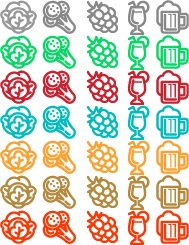
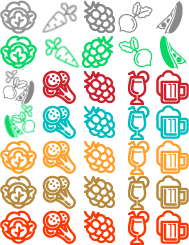
combi add

Changed region(s): [[0.0, 0.0, 1.0, 1.0]]

diff --git a/src/app/components/fruitproducts/fruitproducts.component.html b/src/app/components/fruitproducts/fruitproducts.component.html
@@ -1,21 +1,39 @@
 
-<section class="pb_70" style="padding-top: 15px" >
+<section class="pb_70" >
     <div class="container">
+      <div class="row justify-content-center">
+          <div class="col-12 text-center">
+                <div class="heading_s3 text-center animation" data-animation="fadeInDown" data-animation-delay="0.02s">
+                  <!-- <span class="sub_heading">DomiFrut</span> -->
+                    <h2 style="text-transform: unset;">Frutas y hortalizas a domicilio</h2>
+                </div>
+                <p class="animation" data-animation="fadeInUp" data-animation-delay="0.03s">Excelente calidad al mejor precio!
+                  <!-- <br class="d-none d-md-block"> de excelente calidad y al mejor precio. -->
+                </p>
+            </div>
+        </div>
         <div class="row justify-content-center">
             <div class="col-12">
                 <div class="product_content">
                     <ul class="nav nav-tabs justify-content-center animation" data-animation="fadeInUp" data-animation-delay="0.04s" role="tablist">
-                        <li class="nav-item">
-                        <a class="nav-link" id="tab3" data-toggle="tab" href="#tab-3" role="tab" aria-controls="tab-3" aria-selected="false"><span class="pr_icon3"></span>Frutas</a>
+                      <li class="nav-item">
+                        <a class="nav-link" id="tab5" data-toggle="tab" href="#tab-5" role="tab" aria-controls="tab-5" aria-selected="false"  ><span class="pr_icon4"></span>Bulbos</a>
                       </li>
                       <li class="nav-item">
-                        <a class="nav-link" id="tab2" data-toggle="tab" href="#tab-2" role="tab" aria-controls="tab-2" aria-selected="false" ><span class="pr_icon2"></span>Vegetales</a>
+                        <a class="nav-link" id="tab3" data-toggle="tab" href="#tab-3" role="tab" aria-controls="tab-3" aria-selected="false"><span class="pr_icon3"></span>Frutos</a>
                       </li>
                       <li class="nav-item">
-                        <a class="nav-link" id="tab4" data-toggle="tab" href="#tab-4" role="tab" aria-controls="tab-4" aria-selected="false"  ><span class="pr_icon4"></span>Exquiciteces</a>
+                        <a class="nav-link" id="tab4" data-toggle="tab" href="#tab-4" role="tab" aria-controls="tab-4" aria-selected="false"  ><span class="pr_icon5"></span>Legumbres</a>
+                      </li>
+                       <li class="nav-item">
+                        <a class="nav-link" id="tab6" data-toggle="tab" href="#tab-6" role="tab" aria-controls="tab-6" aria-selected="false"  ><span class="pr_icon2"></span>Tubérculos</a>
                       </li>
                       <li class="nav-item">
-                        <a class="nav-link active" id="tab1" data-toggle="tab" href="#tab-1" role="tab" aria-controls="tab-1" aria-selected="true"  (click)="getAllTixs()"><span class="pr_icon1"></span>Todo</a>
+                        <a class="nav-link" id="tab2" data-toggle="tab" href="#tab-2" role="tab" aria-controls="tab-2" aria-selected="false" ><span class="pr_icon1"></span>Verduras</a>
+                      </li>
+                      <li class="nav-item">
+                        <a class="nav-link active" id="tab1" data-toggle="tab" href="#tab-1" role="tab" aria-controls="tab-1" aria-selected="true"  (click)="getAllTixs()">
+                          <span class="pr_icon7"></span>Todo</a>
                       </li>
                   
                     </ul>
@@ -55,7 +73,7 @@
                         <div class="tab-pane fade" id="tab-2" role="tabpanel" aria-labelledby="tab2">
                             <div class="row animation" data-animation="fadeInUp" data-animation-delay="0.05s">
                                 <a href="javascript:void(0);" class="nav-link sidetoggle">
-                                    <div class="col-xl-3 col-lg-4 col-sm-6 col-xs-6" *ngFor="let tix of tixs" [hidden]="tix.category!='Vegetales'" (click)="viewProduct(tix)" >
+                                    <div class="col-xl-3 col-lg-4 col-sm-6 col-xs-6" *ngFor="let tix of tixs" [hidden]="tix.category!='Verduras'" (click)="viewProduct(tix)" >
                                         <div class="product">
                                             <div class="product_img">
                                                 <a href="#"><img src="{{tix.images[0]}}" alt=""/></a>
@@ -86,7 +104,7 @@
                         <div class="tab-pane fade" id="tab-3" role="tabpanel" aria-labelledby="tab3">
                           <div class="row animation" data-animation="fadeInUp" data-animation-delay="0.05s">
                             <a href="javascript:void(0);" class="nav-link sidetoggle">
-                                    <div class="col-xl-3 col-lg-4 col-sm-6 col-xs-6" *ngFor="let tix of tixs" [hidden]="tix.category!='Frutas'" (click)="viewProduct(tix)">
+                                    <div class="col-xl-3 col-lg-4 col-sm-6 col-xs-6" *ngFor="let tix of tixs" [hidden]="tix.category!='Frutos'" (click)="viewProduct(tix)">
                                        <div class="product">
                                             <div class="product_img">
                                                 <a href="#"><img src="{{tix.images[0]}}" alt=""/></a>
@@ -117,7 +135,69 @@
                         <div class="tab-pane fade" id="tab-4" role="tabpanel" aria-labelledby="tab4">
                            <div class="row animation" data-animation="fadeInUp" data-animation-delay="0.05s">
                                 <a href="javascript:void(0);" class="nav-link sidetoggle">
-                                    <div class="col-xl-3 col-lg-4 col-sm-6 col-xs-6" *ngFor="let tix of tixs" [hidden]="tix.category!='Exquiciteces'"(click)="viewProduct(tix)">
+                                    <div class="col-xl-3 col-lg-4 col-sm-6 col-xs-6" *ngFor="let tix of tixs" [hidden]="tix.category!='Legumbres'"(click)="viewProduct(tix)">
+                                      <div class="product">
+                                            <div class="product_img">
+                                                <a href="#"><img src="{{tix.images[0]}}" alt=""/></a>
+                                                <div class="product_action_box">
+                                                    <ul class="list_none pr_action_btn">
+                                                        <li><a href="#" class="popup-ajax" ><i class="ti-shopping-cart"></i></a></li>
+                                                    </ul>
+                                                </div>
+                                            </div>
+                                            <div class="product_info">
+                                                 <h6><a href="#" class="popup-ajax">{{tix.productName}}</a></h6>
+                                               <!-- <div class="rating">
+                                                    <div class="product_rate" style="width:60%"></div></div> -->
+                                                <span [hidden]="this._uw.currency==this._uw.info[0].colp || this._uw.currency==this._uw.info[0].usd">Bs.S. </span>
+                                                <span [hidden]="this._uw.currency==this._uw.info[0].bs || this._uw.currency==this._uw.info[0].usd">COLP </span>
+                                                <span [hidden]="this._uw.currency==this._uw.info[0].bs || this._uw.currency==this._uw.info[0].colp">$ USD </span>
+                                                <span class="price" [hidden]="this._uw.currency==this._uw.info[0].colp || this._uw.currency==this._uw.info[0].bs">
+                                               {{tix.globalPrice*this._uw.currency  |  number:'1.2-2' }}</span>
+                                               <span class="price" [hidden]="this._uw.currency==this._uw.info[0].usd">
+                                               {{tix.globalPrice*this._uw.currency  |  number:'1.0-0' }} </span>
+                                               <span> ({{tix.presentacion}})</span>
+                                            </div>
+                                        </div>
+                                    </div>
+                               </a>                                
+                            </div>
+                        </div>
+                        <div class="tab-pane fade" id="tab-5" role="tabpanel" aria-labelledby="tab5">
+                           <div class="row animation" data-animation="fadeInUp" data-animation-delay="0.05s">
+                                <a href="javascript:void(0);" class="nav-link sidetoggle">
+                                    <div class="col-xl-3 col-lg-4 col-sm-6 col-xs-6" *ngFor="let tix of tixs" [hidden]="tix.category!='Bulbos'"(click)="viewProduct(tix)">
+                                      <div class="product">
+                                            <div class="product_img">
+                                                <a href="#"><img src="{{tix.images[0]}}" alt=""/></a>
+                                                <div class="product_action_box">
+                                                    <ul class="list_none pr_action_btn">
+                                                        <li><a href="#" class="popup-ajax" ><i class="ti-shopping-cart"></i></a></li>
+                                                    </ul>
+                                                </div>
+                                            </div>
+                                            <div class="product_info">
+                                                 <h6><a href="#" class="popup-ajax">{{tix.productName}}</a></h6>
+                                               <!-- <div class="rating">
+                                                    <div class="product_rate" style="width:60%"></div></div> -->
+                                                <span [hidden]="this._uw.currency==this._uw.info[0].colp || this._uw.currency==this._uw.info[0].usd">Bs.S. </span>
+                                                <span [hidden]="this._uw.currency==this._uw.info[0].bs || this._uw.currency==this._uw.info[0].usd">COLP </span>
+                                                <span [hidden]="this._uw.currency==this._uw.info[0].bs || this._uw.currency==this._uw.info[0].colp">$ USD </span>
+                                                <span class="price" [hidden]="this._uw.currency==this._uw.info[0].colp || this._uw.currency==this._uw.info[0].bs">
+                                               {{tix.globalPrice*this._uw.currency  |  number:'1.2-2' }}</span>
+                                               <span class="price" [hidden]="this._uw.currency==this._uw.info[0].usd">
+                                               {{tix.globalPrice*this._uw.currency  |  number:'1.0-0' }} </span>
+                                               <span> ({{tix.presentacion}})</span>
+                                            </div>
+                                        </div>
+                                    </div>
+                               </a>                                
+                            </div>
+                        </div>
+                        <div class="tab-pane fade" id="tab-6" role="tabpanel" aria-labelledby="tab6">
+                           <div class="row animation" data-animation="fadeInUp" data-animation-delay="0.05s">
+                                <a href="javascript:void(0);" class="nav-link sidetoggle">
+                                    <div class="col-xl-3 col-lg-4 col-sm-6 col-xs-6" *ngFor="let tix of tixs" [hidden]="tix.category!='Tubérculos'"(click)="viewProduct(tix)">
                                       <div class="product">
                                             <div class="product_img">
                                                 <a href="#"><img src="{{tix.images[0]}}" alt=""/></a>

diff --git a/src/app/components/fruitbanner/fruitbanner.component.html b/src/app/components/fruitbanner/fruitbanner.component.html
@@ -22,6 +22,7 @@
                         </div>
                     </div>
                 </div>
+
                 <div class="banner_shape">
                     <div class="shape22">
                         <div class="animation" data-animation="slideInLeft" data-animation-delay="0.5s">
@@ -50,6 +51,55 @@
                     </div>
                 </div>
             </div>
+              <div class="carousel-item bg_light_yellow">
+                <div class="banner_slide_content slide_content_wrap">
+                    <div class="container-fluid">
+                        <div class="row align-items-center">
+                             <div class="col-md-6 col-sm-5">
+                                <div class="banner_slider_img animation" data-animation="bounceInUp" data-animation-delay="0.4s">
+                                    <img class="bounceimg" src="assets/assetsfruit/images/combi.png" />
+                                </div>
+                            </div>
+                            <div class="col-md-6 col-sm-7">
+                                <div class="banner_content3 pl-lg-5 animation" data-animation="fadeIn" data-animation-delay="0.4s" data-parallax='{"y": 30, "smoothness": 10}'>
+                            <h2 class="animation font_style1" data-animation="fadeInDown" data-animation-delay="0.5s">Entregas a domicilio</h2>
+                            <p class="animation" data-animation="fadeInUp" data-animation-delay="0.6s">Tu eliges lo que deseas y nosotros lo llevamos a la puerta de tu casa</p>
+                            <a class="btn btn-default animation" href="#" data-animation="fadeInUp" data-animation-delay="0.7s">Ver rango de cobertura</a>
+                            <a class="btn btn-white animation" href="#" data-animation="fadeInUp" data-animation-delay="0.8s">Mi ubicacion aplica?</a>
+                        </div>
+                            </div>
+                           
+                        </div>
+                    </div>
+                </div>
+                <div class="banner_shape">
+                    <div class="shape22">
+                        <div class="animation" data-animation="slideInLeft" data-animation-delay="0.5s">
+                            <img data-parallax='{"y": -300, "smoothness": 20}' src="assets/assetsfruit/images/shape51.png" alt="shape51"/>
+                        </div>
+                    </div>
+                    <div class="shape23">
+                        <div class="animation" data-animation="slideInDown" data-animation-delay="0.5s">
+                            <img data-parallax='{"y": 30, "smoothness": 20}' src="assets/assetsfruit/images/shape52.png" alt="shape52"/>
+                        </div>
+                    </div>
+                    <div class="shape24">
+                        <div class="animation" data-animation="bounceInDown" data-animation-delay="0.5s">
+                            <img data-parallax='{"y": 30, "smoothness": 20}' src="assets/assetsfruit/images/shape53.png" alt="shape53"/>
+                        </div>
+                    </div>
+                    <div class="shape25">
+                        <div class="animation" data-animation="slideInRight" data-animation-delay="0.5s">
+                            <img data-parallax='{"y": 30, "smoothness": 20}' src="assets/assetsfruit/images/shape54.png" alt="shape54"/>
+                        </div>
+                    </div>
+                    <div class="shape26">
+                        <div class="animation" data-animation="bounceInUp" data-animation-delay="0.5s">
+                            <img data-parallax='{"y": 30, "smoothness": 20}' src="assets/assetsfruit/images/shape55.png" alt="shape55"/>
+                        </div>
+                    </div>
+                </div>
+            </div> 
         </div>
     <a class="carousel-control-prev" href="#carouselExampleFade" role="button" data-slide="prev"><i class="ion-chevron-left"></i></a>
     <a class="carousel-control-next" href="#carouselExampleFade" role="button" data-slide="next"><i class="ion-chevron-right"></i></a>

diff --git a/src/assets/assetsfruit/css/style.css b/src/assets/assetsfruit/css/style.css
@@ -678,6 +678,8 @@ button:focus {
 }
 .bg_light_yellow {
 	background-color: #faeac8 !important;
+	/*background-color: #fff707b8 !important;*/
+	
 }
 .bg_light_blue {
 	background-color: #d2e8f2 !important;
@@ -2215,31 +2217,37 @@ body.active {
 	background-position: 0px 0px;
 }
 .pr_icon2 {
-	background-position: -41px 0px;
+	background-position: -42px 0px;
 }
 .pr_icon3 {
-	background-position: -85px 0px;
+	background-position: -82px 0px;
 }
 .pr_icon4 {
 	background-position: -118px 0px;
 }
 .pr_icon5 {
-	background-position: -153px 0px;
+	background-position: -152px 0px;
+}
+.pr_icon7 {
+	background-position: 0px -70px;
 }
 .nav-tabs .nav-link:hover .pr_icon1, .nav-tabs .nav-link.active .pr_icon1, .nav-tabs .nav-link.active:hover .pr_icon1 {
 	background-position: 0px -35px;
 }
 .nav-tabs .nav-link:hover .pr_icon2, .nav-tabs .nav-link.active .pr_icon2, .nav-tabs .nav-link.active:hover .pr_icon2 {
-	background-position: -41px -35px;
+	background-position: -42px -35px;
 }
 .nav-tabs .nav-link:hover .pr_icon3, .nav-tabs .nav-link.active .pr_icon3, .nav-tabs .nav-link.active:hover .pr_icon3 {
-	background-position: -85px -35px;
+	background-position: -82px -35px;
 }
 .nav-tabs .nav-link:hover .pr_icon4, .nav-tabs .nav-link.active .pr_icon4, .nav-tabs .nav-link.active:hover .pr_icon4 {
 	background-position: -118px -35px;
 }
 .nav-tabs .nav-link:hover .pr_icon5, .nav-tabs .nav-link.active .pr_icon5, .nav-tabs .nav-link.active:hover .pr_icon5 {
-	background-position: -153px -35px;
+	background-position: -152px -35px;
+}
+.nav-tabs .nav-link:hover .pr_icon7, .nav-tabs .nav-link.active .pr_icon7, .nav-tabs .nav-link.active:hover .pr_icon7 {
+	background-position: 0px -105px;
 }
 .product {
 	background-color: #fff;

diff --git a/src/app/components/fruittopbar/fruittopbar.component.html b/src/app/components/fruittopbar/fruittopbar.component.html
@@ -50,6 +50,7 @@
                     </ul>
                   </div>
                 </li>
+
                 <li class="dropdown" [hidden]="this._uw.currency==this._uw.info[0].bs || this._uw.currency==this._uw.info[0].usd">
                   <a class="dropdown-toggle"  data-toggle="dropdown" >COLP (Bs.S. {{this._uw.info[0].colp}}) </a>
                   <div class="dropdown-menu shadow dropdown-menu-right" >
@@ -63,6 +64,7 @@
                     </ul>
                   </div>
                 </li>
+                
                 <li class="dropdown" [hidden]="this._uw.currency==this._uw.info[0].bs || this._uw.currency==this._uw.info[0].colp">
                   <a class="dropdown-toggle"  data-toggle="dropdown" >USD (Bs.S. {{1/this._uw.info[0].usd |  number:'1.0-0' }})</a>
                   <div class="dropdown-menu shadow dropdown-menu-right" >

diff --git a/src/app/components/footer/footer.component.spec.ts b/src/app/components/footer/footer.component.spec.ts
@@ -1,0 +1,25 @@
+import { async, ComponentFixture, TestBed } from '@angular/core/testing';
+
+import { FooterComponent } from './footer.component';
+
+describe('FooterComponent', () => {
+  let component: FooterComponent;
+  let fixture: ComponentFixture<FooterComponent>;
+
+  beforeEach(async(() => {
+    TestBed.configureTestingModule({
+      declarations: [ FooterComponent ]
+    })
+    .compileComponents();
+  }));
+
+  beforeEach(() => {
+    fixture = TestBed.createComponent(FooterComponent);
+    component = fixture.componentInstance;
+    fixture.detectChanges();
+  });
+
+  it('should create', () => {
+    expect(component).toBeTruthy();
+  });
+});

diff --git a/src/app/app.module.ts b/src/app/app.module.ts
@@ -44,6 +44,7 @@ import { FruitproductsComponent } from './components/fruitproducts/fruitproducts
 import { FruittopbarComponent } from './components/fruittopbar/fruittopbar.component';
 import { Component, Inject} from '@angular/core';
 import { FruitcartComponent } from './components/fruitcart/fruitcart.component';
+import { FooterComponent } from './components/footer/footer.component';
 
 @NgModule({
   declarations: [
@@ -56,6 +57,7 @@ import { FruitcartComponent } from './components/fruitcart/fruitcart.component';
     FruitproductsComponent,
     FruittopbarComponent,
     FruitcartComponent,
+    FooterComponent,
   ],
   imports: [
     BrowserModule,

diff --git a/src/app/components/footer/footer.component.ts b/src/app/components/footer/footer.component.ts
@@ -1,0 +1,15 @@
+import { Component, OnInit } from '@angular/core';
+
+@Component({
+  selector: 'app-footer',
+  templateUrl: './footer.component.html',
+  styleUrls: ['./footer.component.css']
+})
+export class FooterComponent implements OnInit {
+
+  constructor() { }
+
+  ngOnInit() {
+  }
+
+}

diff --git a/src/app/components/footer/footer.component.html b/src/app/components/footer/footer.component.html
@@ -1,0 +1,1 @@
+<p>footer works!</p>
